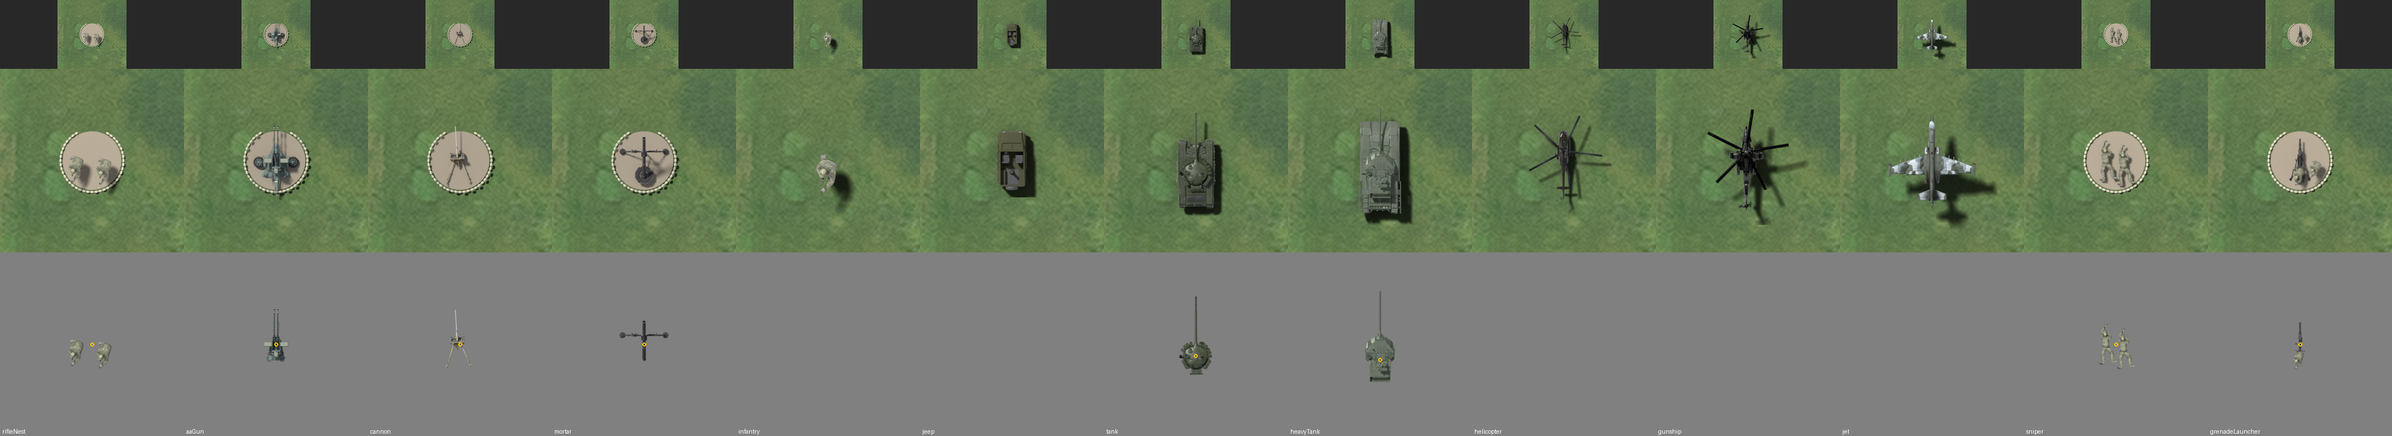
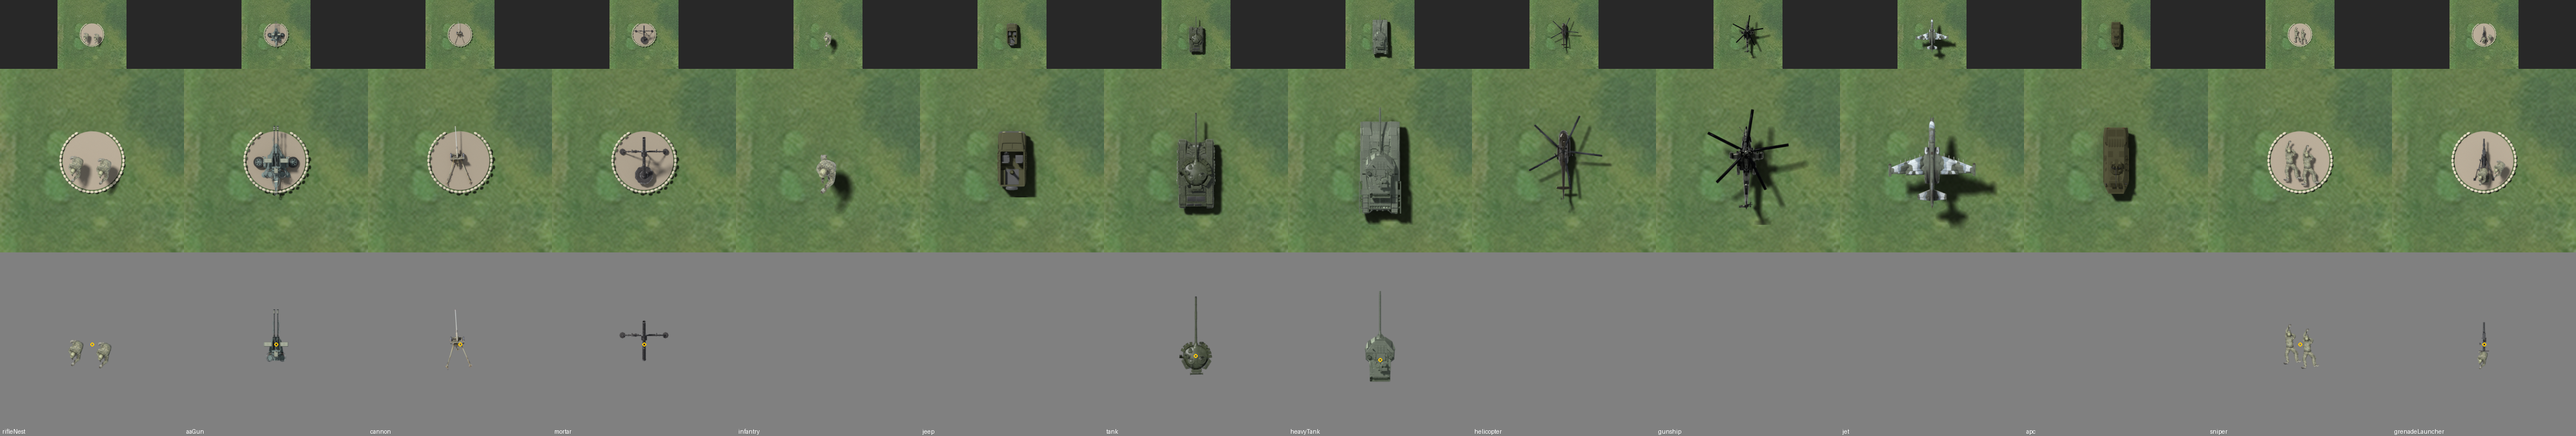
feat: Russia APC render (BTR-82A) with turntable (#535)
Stacked on the US APC PR (branch `feat/478-us-apc-render`, #478).

Closes #480

## What changed
- Russia's APC render: "BTR-82A" by lebedeventerprise (CC-BY-4.0, Sketchfab `cd1ba0c1f16f42aaac45234ced318605`), an original model of the exact type (not ripped), through `scripts/render-sprite.py`: `assets/render-russia-apc/` with the sprite, its JSON, a turntable (about 126 KB) for the Field manual (#408) and `License.txt`.
- `scripts/render-sprite.json` entry (about 0.9 tile long), `assets/manifest.json`, regenerated `CREDITS.md`, `docs/assets.md`.
- `docs/art/faction-russia.png` regenerated: the sheet now has an `apc` column.

## Screenshots
Faction sheet, before (no APC):

![before](https://raw.githubusercontent.com/itay28/Military-TD/main/docs/art/faction-russia.png)

After (APC in the last column):

![after](https://raw.githubusercontent.com/itay28/Military-TD/feat/480-russia-apc-render/docs/art/faction-russia.png)

## How it was tested
- `tests/render-pivot.test.ts`: the Russia APC render (kind and faction, no turret, canvas size, about 0.9 tile long facing north), its turntable files, and the complete-set check now counts `apc` for Russia. Written first (red), now green.
- `npm run check` passes (152 files, 2675 tests). No UI change, so no e2e.

## Checklist
- [x] Plan was posted on the issue before coding; progress comments kept it current
- [x] Session tracker link: n/a (routine)
- [x] Tests were written first and are now passing
- [x] `npm run check` passes
[…]

diff --git a/tests/render-pivot.test.ts b/tests/render-pivot.test.ts
@@ -200,6 +200,50 @@ describe('the US APC render (#478)', () => {
   });
 });
 
+describe('the Russia APC render (#480)', () => {
+  const model = RENDER_CONFIG.models.find((m) => m.id === 'russia-apc')!;
+  const png = PNG.sync.read(readFileSync('assets/render-russia-apc/russia-apc.png'));
+
+  it('is the APC kind for Russia, a single image with no turret', () => {
+    expect(model).toMatchObject({ kind: 'apc', faction: 'russia' });
+    expect(model.turret).toBeUndefined();
+    expect(buildRenderMeta().find((m) => m.json.id === 'russia-apc')!.json.pivot).toBeUndefined();
+  });
+
+  it('fills its canvas: canvasTiles × pxPerTile, with the shadow inside the edges', () => {
+    expect(png.width).toBe(Math.round(model.canvasTiles * RENDER_CONFIG.pxPerTile));
+    expect(png.height).toBe(png.width);
+    const alpha = (x: number, y: number): number => png.data[(y * png.width + x) * 4 + 3]!;
+    for (let i = 0; i < png.width; i++) {
+      expect(alpha(i, 0)).toBe(0);
+      expect(alpha(i, png.height - 1)).toBe(0);
+      expect(alpha(0, i)).toBe(0);
+      expect(alpha(png.width - 1, i)).toBe(0);
+    }
+  });
+
+  it('is about 0.9 tile long (ADR-0009, point 2), facing north: longer than wide', () => {
+    let [minX, minY, maxX, maxY] = [Infinity, Infinity, -1, -1];
+    for (let y = 0; y < png.height; y++)
+      for (let x = 0; x < png.width; x++) {
+        if (png.data[(y * png.width + x) * 4 + 3]! < 250) continue; // the vehicle, not its softer shadow
+        [minX, minY, maxX, maxY] = [Math.min(minX, x), Math.min(minY, y), Math.max(maxX, x), Math.max(maxY, y)];
+      }
+    const length = (maxY - minY + 1) / RENDER_CONFIG.pxPerTile;
+    expect(length).toBeGreaterThan(0.82);
+    expect(length).toBeLessThan(0.98);
+    expect(maxX - minX + 1).toBeLessThan(maxY - minY + 1);
+  });
+
+  it('has a turntable for the Field manual (#408), a WebP sheet with its JSON', () => {
+    const meta = JSON.parse(readFileSync('assets/render-russia-apc/russia-apc-turntable.json', 'utf8'));
+    expect(meta).toMatchObject({ id: 'russia-apc', kind: 'apc', faction: 'russia' });
+    const sheet = readFileSync('assets/render-russia-apc/russia-apc-turntable.webp');
+    expect(sheet.toString('ascii', 8, 12)).toBe('WEBP');
+    expect(sheet.length).toBeLessThan(300_000);
+  });
+});
+
 describe('the Sniper renders (art-ahead, #358)', () => {
   const snipers = RENDER_CONFIG.models.filter((m) => m.kind === 'sniper');
 

diff --git a/src/data/renders.test.ts b/src/data/renders.test.ts
@@ -57,7 +57,7 @@ describe('RENDERS', () => {
     expect('jet' in RENDERS).toBe(false);
   });
 
-  it('leaves the APC out until it is in play (#76): its US render (#478) is only in the Field manual for now', () => {
+  it('leaves the APC out until it is in play (#76): its US (#478) and Russia (#480) renders are only in the Field manual for now', () => {
     expect('apc' in RENDERS).toBe(false);
     expect(SPRITES.apc).toBeNull();
   });

diff --git a/docs/assets.md b/docs/assets.md
@@ -222,6 +222,7 @@ Don't use plain `python3` (3.13 in the cloud image, where pip offers only `bpy` 
 | `render-us-tank/` | "M1A2 Abrams Crows" by MirzaArrafiERV_45, CC-BY-4.0 | `scripts/render-sprite.py` |
 | `render-us-helicopter/` | "Sikorsky UH-60 Black Hawk" by helijah, CC-BY-4.0 | `scripts/render-sprite.py` |
 | `render-us-apc/` | "M113" by arc4de, CC-BY-4.0 (the APC, #478: rendered ahead of the kind being in play, #76) | `scripts/render-sprite.py` |
+| `render-russia-apc/` | "BTR-82A" by lebedeventerprise, CC-BY-4.0 (the APC for Russia, #480: rendered ahead of the kind being in play, #76) | `scripts/render-sprite.py` |
 | `render-russia-rifle-nest/` | "Tactical Soldier (game ready) low poly" by MissingTray1151, CC-BY-4.0 | `scripts/render-sprite.py` |
 | `render-russia-aa-gun/` | "ZU - 23, зенитная установка, ЗУ-23, зенитка" by LuckySkink9661, CC-BY-4.0 | `scripts/render-sprite.py` |
 | `render-russia-cannon/` | "ZiS-2 57mm anti-tank gun" by sergey.s.filin, CC-BY-4.0 | `scripts/render-sprite.py` |

diff --git a/CREDITS.md b/CREDITS.md
@@ -182,6 +182,15 @@ Third-party assets in this game. Generated from `assets/manifest.json` by `npm r
 - Downloaded: 2026-11-02
 - Files: `assets/render-us-jeep/**`
 
+## BTR-82A (top-down render and turntable)
+
+- Author: lebedeventerprise
+- Source: <https://sketchfab.com/3d-models/cd1ba0c1f16f42aaac45234ced318605>
+- License: CC-BY-4.0
+- Attribution: "BTR-82A" by lebedeventerprise (sketchfab.com), CC-BY 4.0, rendered top-down, plus a turntable of the whole model (24 views from 30 degrees up) for the Field manual
+- Downloaded: 2026-11-11
+- Files: `assets/render-russia-apc/**`
+
 ## M113 (top-down render and turntable)
 
 - Author: arc4de
